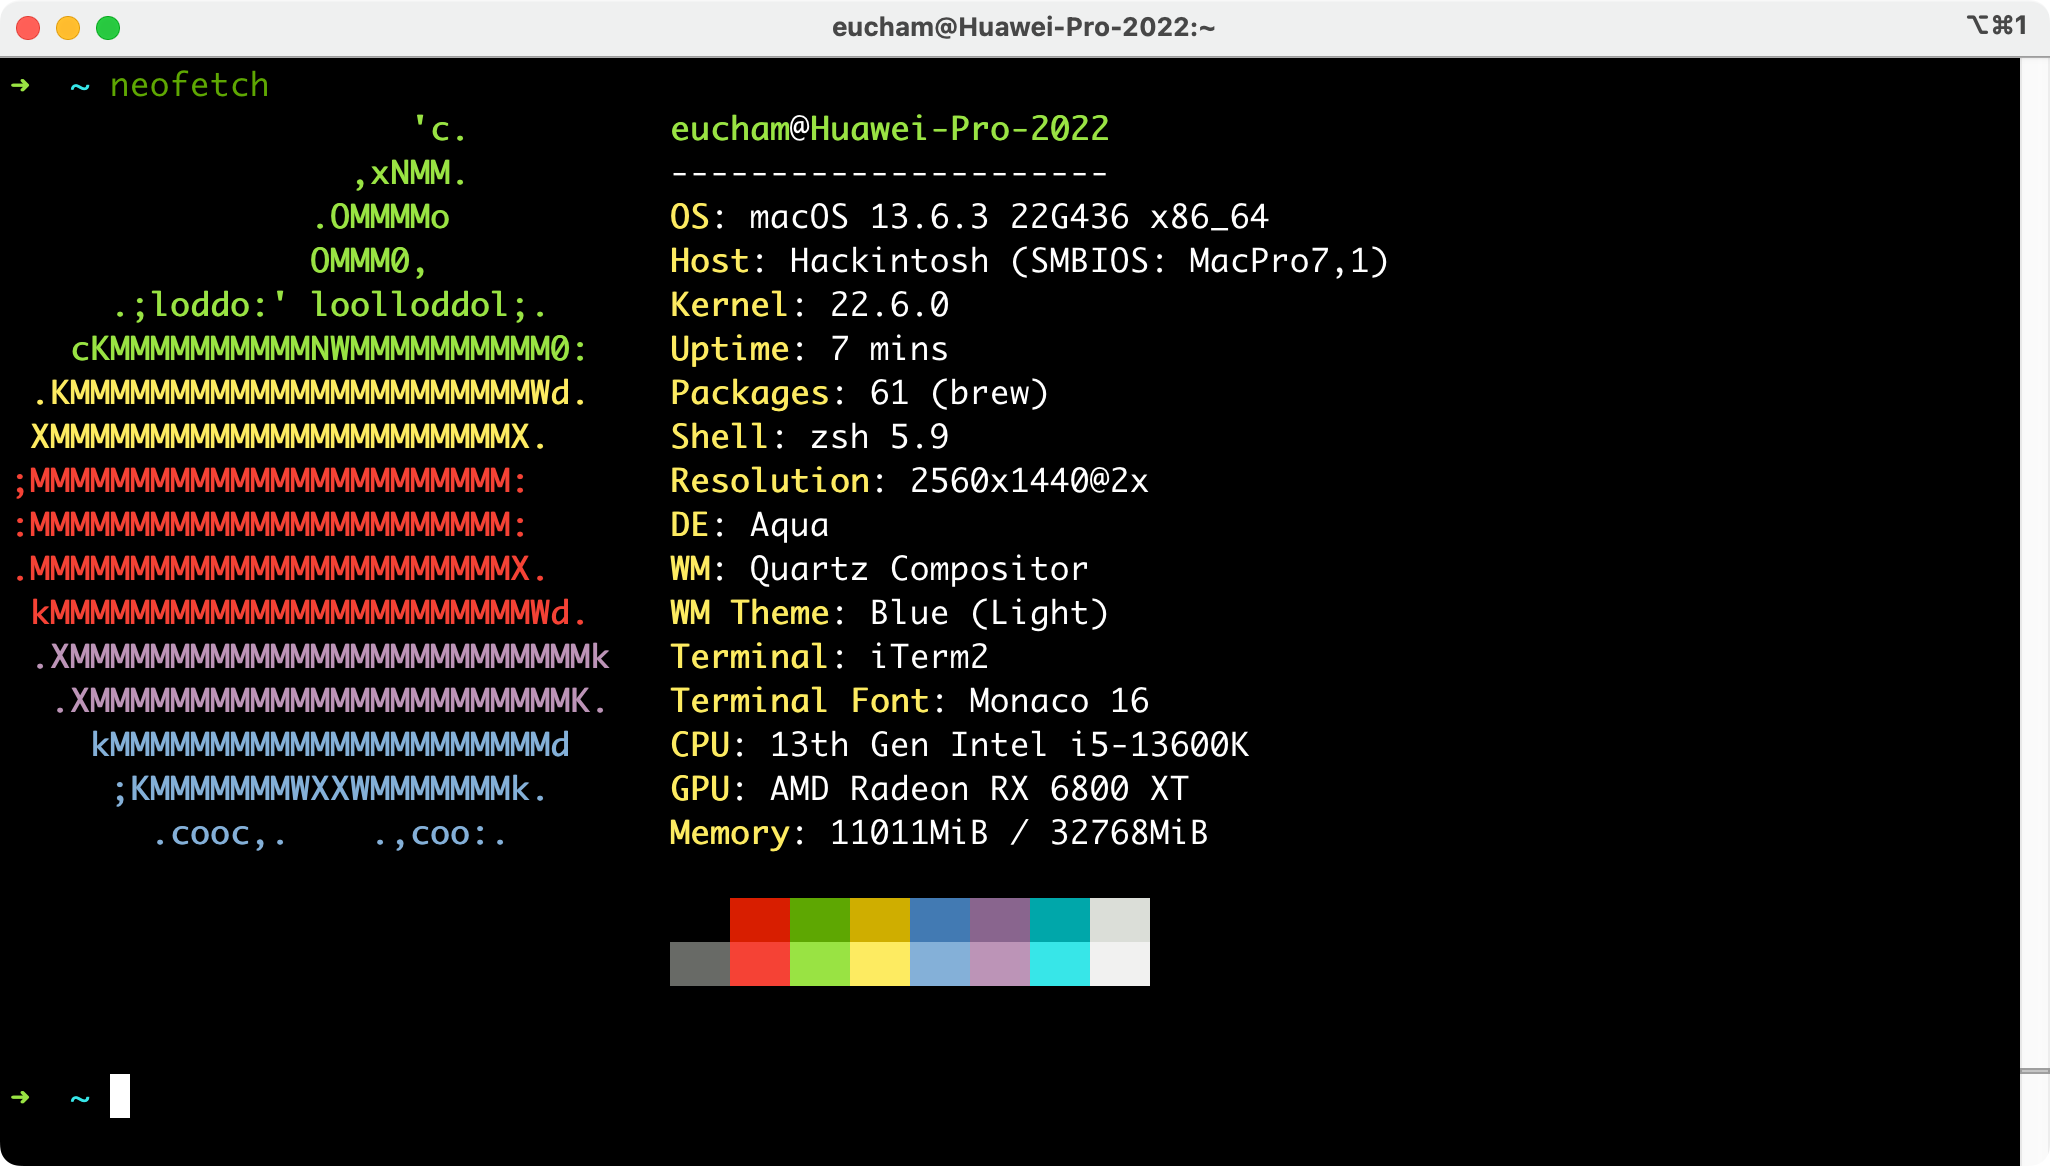
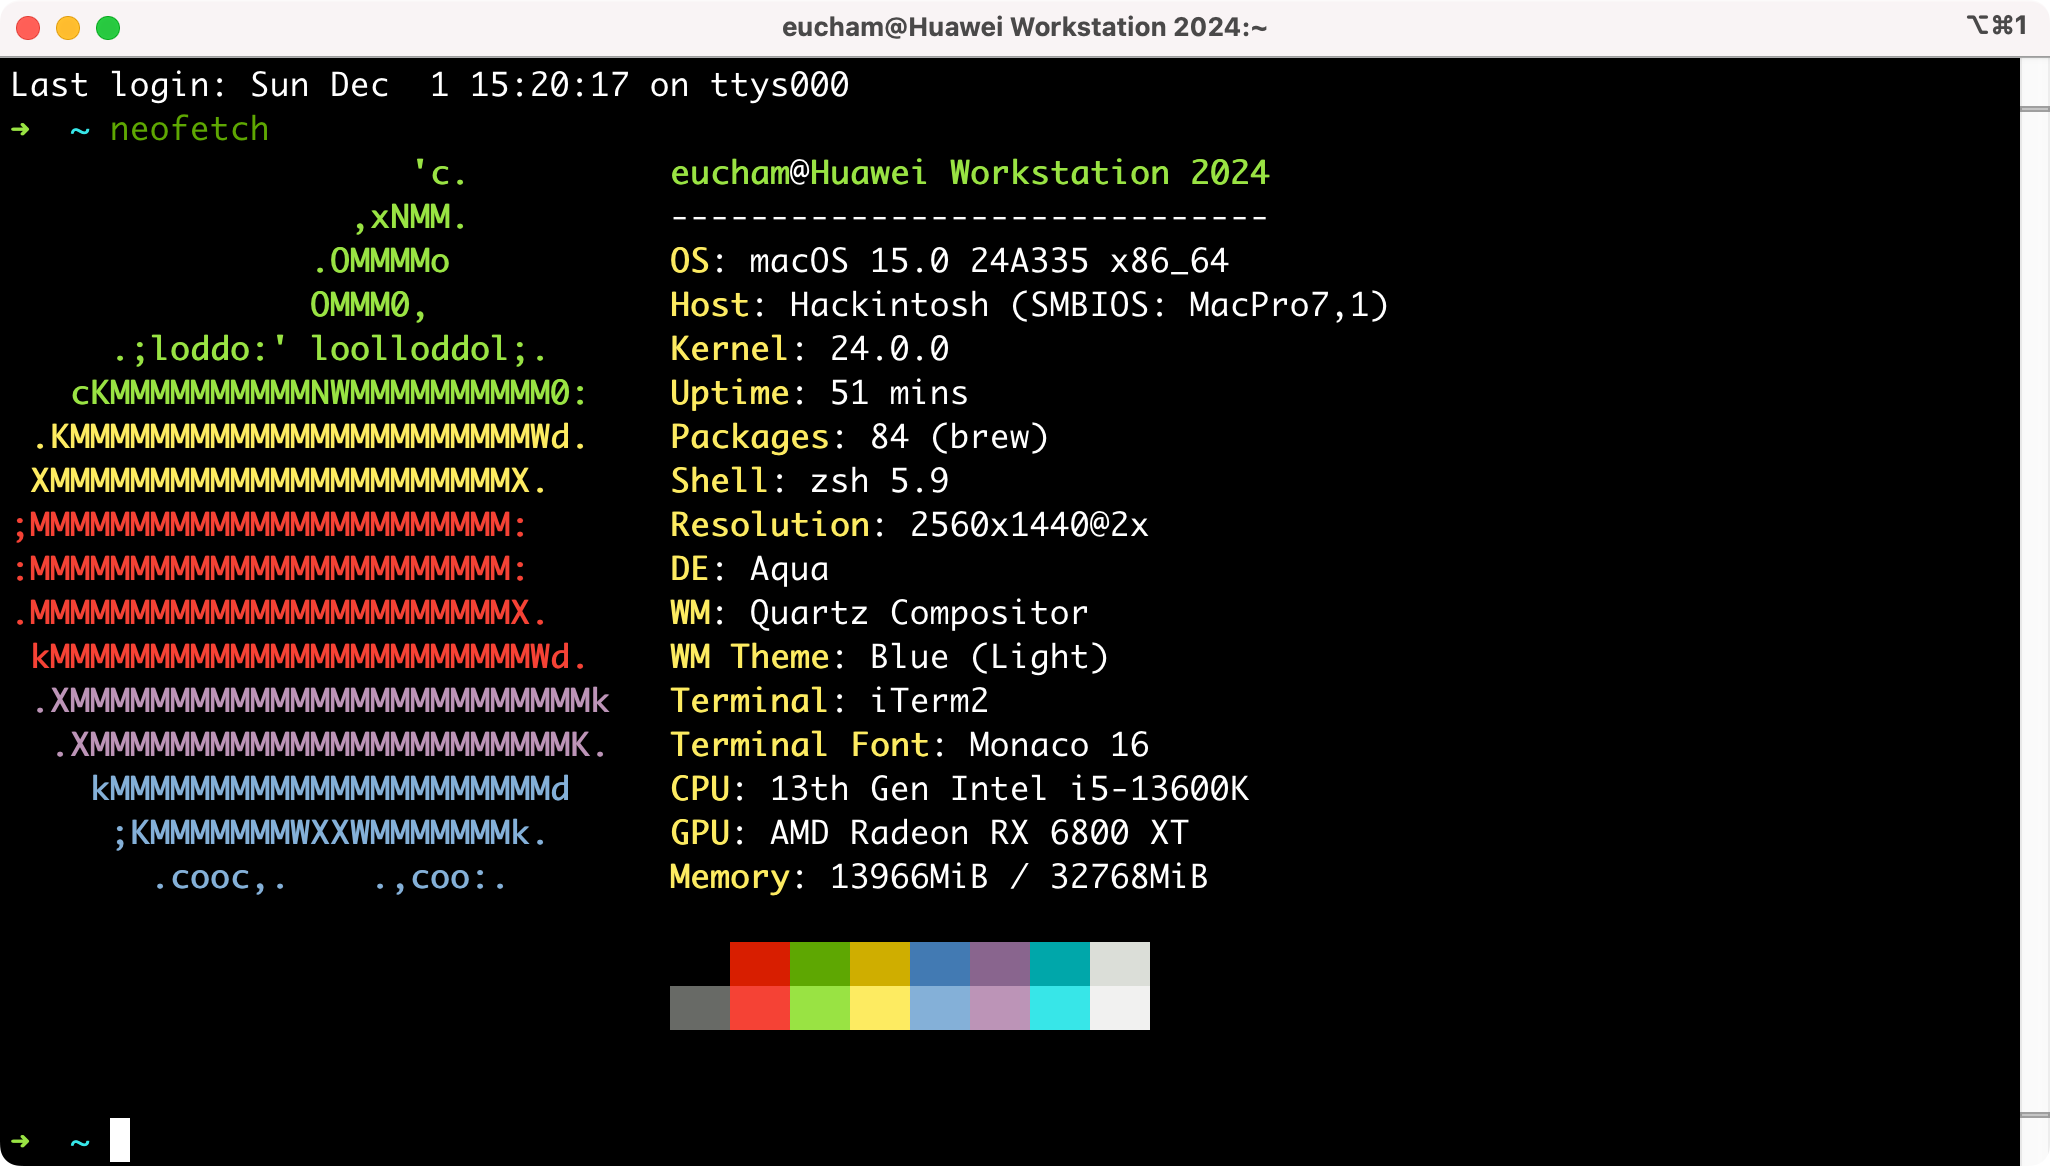
docs: update README

diff --git a/README.md b/README.md
@@ -15,8 +15,8 @@ I got a strange problem that the macOS's booting procedure was quited after sele
 
 ## Current Version
 
-- OpenCore 1.0.1
-- macOS Ventura 13.6.3
+- OpenCore 1.0.2
+- macOS Sequoia 15.0
 
 ![neofetch](./pics/neofetch.png)
 
@@ -108,3 +108,52 @@ I got a strange problem that the macOS's booting procedure was quited after sele
 - [SSDTTime (DSDT Dump and SSDT creation)](https://github.com/corpnewt/SSDTTime)
 
 - [GenSMBIOS (Generate Serial and UUID)](https://github.com/corpnewt/GenSMBIOS)
+
+## Wifi & Bluetooth on macOS Sequoia
+
+### Steps
+
+1. `AMFI` block
+
+Add kext: [AMFIPass.kext](https://github.com/bluppus20/AMFIPass/releases)
+
+**No need to** add boot-args `NVRAM>Add>UUID>boot-args|-amfipassbeta` for `AMFIPass.kext` while its version isabove v1.4.0. (UUID:7C436110-AB2A-4BBB-A880-FE41995C9F82)
+
+2. `csi-active-config`
+
+Set value `NVRAM>Add>UUID>csr-active-config | 03080000`(UUID:7C436110-AB2A-4BBB-A880-FE41995C9F82). And remember to **reset NVRAM** while starting macOS.
+
+3. Disable `SecureBootModel` if needed
+
+`Misc>Security>SecureBootModel`: `Disabled` 
+
+4. Block `com.apple.iokit.IOSkywalkFamily` kext
+
+`Kernel>Block>`: with identifier `com.apple.iokit.IOSkywalkFamily` and Strategy `Exclude`.
+
+5. Add [kexts](https://github.com/dortania/OpenCore-Legacy-Patcher/tree/main/payloads/Kexts/Wifi) in order as follows
+
+   - IOSkywalkFamily.kext
+   - IO80211FamilyLegacy.kext
+   - IO80211FamilyLegacy.kext>AirPortBrcmNIC.kext
+
+   it's better to set MinKernel to 23.0.0.
+
+6. Add boot-args to fix web-based applications crashes  such as Postman, Dingtalk.
+
+   - `revpatch=sbvmm`（RestrictEvents.kext need）
+
+   - `ipc_control_port_options=0`
+
+   reboot
+
+6. Download and Install [OpenCore Legacy Patcher（OCLP）](https://github.com/dortania/OpenCore-Legacy-Patcher/releases), and then do as follows:
+
+   OCLP.app>Post-Install Root Patch>Start Root Patching>Reboot
+
+### Reference
+
+- https://www.cnblogs.com/wkvip/p/17787077.html
+- https://bbs.pcbeta.com/viewthread-1992658-1-1.html
+- https://heipg.cn/tutorial/patch-brcm-wireless-card-macos-sonoma.html
+
